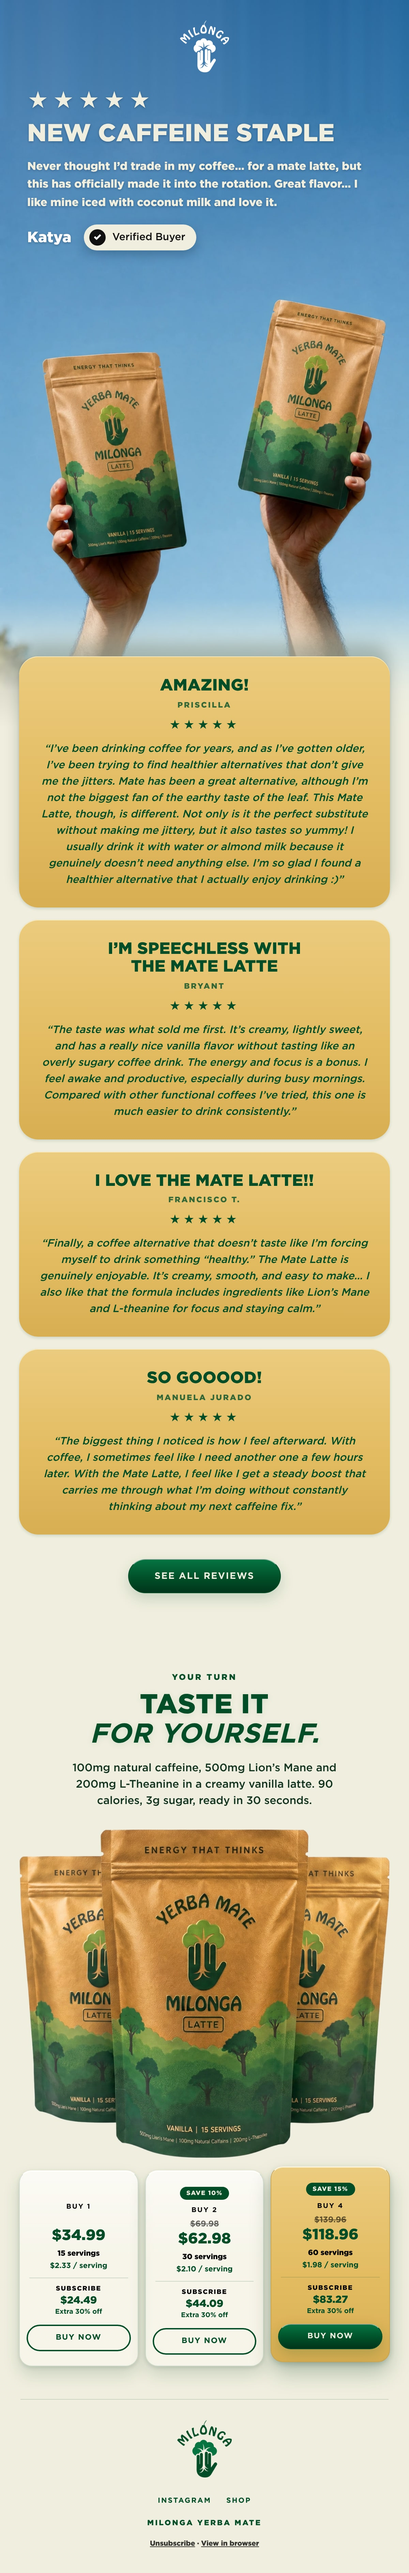
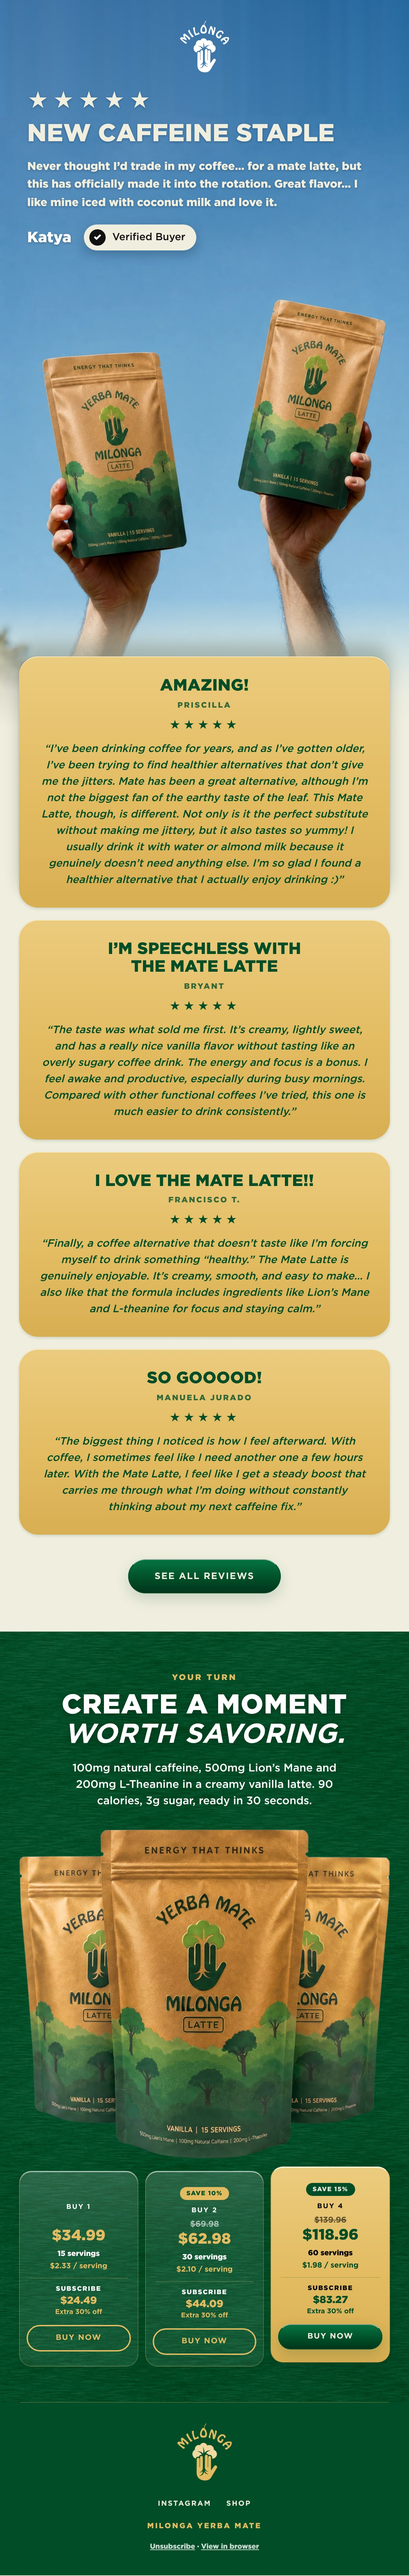
email: the close reads Create a moment worth savoring, on forest
The buying section moves onto the forest paper with the footer, gold
eyebrow and white type; the three bags become a transparent PNG so they
sit on the grain. On a forest page BundleOffer's raised gold tier keeps
forest type and button (the beige map), and the plain tiers take a faint
sheen instead of a white wash.

Claude-Session: https://claude.ai/code/session_01NhEtXPnfeCJfN73SqBkUZ5

diff --git a/email-ds/src/components/BundleOffer.tsx b/email-ds/src/components/BundleOffer.tsx
@@ -71,14 +71,18 @@ export function BundleOffer({ bg = 'forest', image, tiers, subscribe, raised = f
   // A raised tier: its own fill with a sheen across the top, the featured one
   // in the gold gradient the buttons use.
   const GOLD_FACE = 'linear-gradient(180deg, #EBCB7E 0%, #E3BC62 55%, #D8AE52 100%)';
-  const SHEEN = 'linear-gradient(180deg, rgba(255,255,255,0.5) 0%, rgba(255,255,255,0) 45%)';
+  // The sheen is a lit top edge: strong on a light page, faint on forest,
+  // where a strong white wash would read as a grey card.
+  const SHEEN = bg === 'forest'
+    ? 'linear-gradient(180deg, rgba(255,255,255,0.10) 0%, rgba(255,255,255,0) 45%)'
+    : 'linear-gradient(180deg, rgba(255,255,255,0.5) 0%, rgba(255,255,255,0) 45%)';
   const tierStyle = (featured?: boolean): React.CSSProperties =>
     raised
       ? {
           background: featured ? GOLD_FACE : `${SHEEN}, ${fill}`,
           backgroundColor: featured ? colors.gold : fill,
           border: `1px solid ${featured ? 'rgba(201,162,78,0.9)' : t.rule}`,
-          borderTopColor: 'rgba(255,255,255,0.85)',
+          borderTopColor: bg === 'forest' && !featured ? 'rgba(255,255,255,0.22)' : 'rgba(255,255,255,0.85)',
           borderRadius: 18,
           boxShadow: featured
             ? '0 16px 30px rgba(0,53,27,0.26), 0 3px 8px rgba(0,53,27,0.18), inset 0 1px 0 rgba(255,246,214,0.8)'
@@ -108,7 +112,13 @@ export function BundleOffer({ bg = 'forest', image, tiers, subscribe, raised = f
       ) : null}
 
       <div style={{ display: 'grid', gridTemplateColumns: `repeat(${tiers.length}, 1fr)`, gap: 10 }}>
-        {tiers.map((tier) => (
+        {tiers.map((tier) => {
+          // A raised featured tier is a GOLD card whatever the page, so its
+          // type and button follow the beige map (forest on light) rather than
+          // the page's — on a forest page gold-on-gold would vanish.
+          const onGold = raised && tier.featured;
+          const tt = onGold ? onBg.beige : t;
+          return (
           <div
             key={tier.label}
             className="milonga-lift"
@@ -124,8 +134,8 @@ export function BundleOffer({ bg = 'forest', image, tiers, subscribe, raised = f
               <div
                 style={{
                   display: 'inline-block',
-                  background: t.accent,
-                  color: t.btnText,
+                  background: tt.accent,
+                  color: tt.btnText,
                   fontSize: 9,
                   fontWeight: 900,
                   letterSpacing: '0.1em',
@@ -144,7 +154,7 @@ export function BundleOffer({ bg = 'forest', image, tiers, subscribe, raised = f
                 fontWeight: 700,
                 letterSpacing: '0.14em',
                 textTransform: 'uppercase',
-                color: t.body,
+                color: tt.body,
                 marginBottom: 7,
               }}
             >
@@ -156,7 +166,7 @@ export function BundleOffer({ bg = 'forest', image, tiers, subscribe, raised = f
               style={{
                 fontSize: 12,
                 fontWeight: 700,
-                color: t.body,
+                color: tt.body,
                 opacity: tier.was ? 0.6 : 0,
                 textDecoration: 'line-through',
                 lineHeight: 1.2,
@@ -165,27 +175,27 @@ export function BundleOffer({ bg = 'forest', image, tiers, subscribe, raised = f
             >
               {tier.was ?? tier.price}
             </div>
-            <div style={{ fontSize: 22, fontWeight: 900, color: t.accent, lineHeight: 1.05, marginBottom: 7 }}>
+            <div style={{ fontSize: 22, fontWeight: 900, color: tt.accent, lineHeight: 1.05, marginBottom: 7 }}>
               {tier.price}
             </div>
-            {tier.detail ? <div style={{ fontSize: 11, lineHeight: 1.45, color: t.body }}>{tier.detail}</div> : null}
+            {tier.detail ? <div style={{ fontSize: 11, lineHeight: 1.45, color: tt.body }}>{tier.detail}</div> : null}
             {tier.unit ? (
-              <div style={{ fontSize: 11, fontWeight: 700, color: t.accent, paddingTop: 3 }}>{tier.unit}</div>
+              <div style={{ fontSize: 11, fontWeight: 700, color: tt.accent, paddingTop: 3 }}>{tier.unit}</div>
             ) : null}
             {tier.sub ? (
-              <div style={{ margin: '11px 4px 0', paddingTop: 9, borderTop: `1px solid ${t.rule}` }}>
-                <div style={{ fontSize: 9.5, fontWeight: 900, letterSpacing: '0.12em', textTransform: 'uppercase', color: t.body }}>
+              <div style={{ margin: '11px 4px 0', paddingTop: 9, borderTop: `1px solid ${tt.rule}` }}>
+                <div style={{ fontSize: 9.5, fontWeight: 900, letterSpacing: '0.12em', textTransform: 'uppercase', color: tt.body }}>
                   Subscribe
                 </div>
-                <div style={{ fontSize: 15, fontWeight: 900, color: t.accent, lineHeight: 1.15, paddingTop: 3 }}>
+                <div style={{ fontSize: 15, fontWeight: 900, color: tt.accent, lineHeight: 1.15, paddingTop: 3 }}>
                   {tier.sub.price}
                 </div>
-                <div style={{ fontSize: 10, fontWeight: 700, color: t.accent, paddingTop: 2 }}>{tier.sub.note}</div>
+                <div style={{ fontSize: 10, fontWeight: 700, color: tt.accent, paddingTop: 2 }}>{tier.sub.note}</div>
               </div>
             ) : null}
             <div style={{ height: 13 }} />
             <Button
-              bg={bg}
+              bg={onGold ? 'beige' : bg}
               label="Buy now"
               href={tier.href}
               size="sm"
@@ -193,7 +203,8 @@ export function BundleOffer({ bg = 'forest', image, tiers, subscribe, raised = f
               fullWidth
             />
           </div>
-        ))}
+          );
+        })}
       </div>
 
       {subscribe ? (

diff --git a/email-ds/emails/reviews-showcase.jsx b/email-ds/emails/reviews-showcase.jsx
@@ -43,7 +43,7 @@ const SECTION_1_ALT =
   REVIEWS[0].quote.replace(/[“”]/g, '');
 
 const SECTION_3_ALT =
-  'Your turn. Taste it for yourself. 100mg natural caffeine, 500mg Lion’s Mane ' +
+  'Your turn. Create a moment worth savoring. 100mg natural caffeine, 500mg Lion’s Mane ' +
   'and 200mg L-Theanine in a creamy vanilla latte. 90 calories, 3g sugar, ready ' +
   'in 30 seconds. Three Milonga Mate Latte pouches. Buy 1: $34.99, 15 servings, ' +
   '$2.33 a serving, or $24.49 subscribed. Buy 2: $62.98, save 10%, 30 servings, ' +
@@ -148,25 +148,26 @@ function ReviewsShowcase({ shopHref = '#shop' }) {
     ),
 
     // ── 3 · THE CLOSE ─────────────────────────────────────────────────────
-    // Beige, dark green type only. The pouch and the real bundle ladder from
-    // the product file: one bag, two at 10% off, three at 15% off, and an
-    // extra 15% for subscribing. One button.
-    h('div', { style: { padding: '60px 28px 48px', textAlign: 'center' } },
+    // The buying section on the forest paper, so the email closes on its
+    // darkest, richest ground. Dark-green map: gold eyebrow, white title and
+    // body. The three bags, then the bundle ladder as raised cards — the
+    // featured gold card keeps forest type, because gold-on-gold vanishes.
+    h('div', { style: { ...FOREST_PAPER, padding: '60px 28px 52px', textAlign: 'center' } },
       h('div', { style: { fontFamily: FONT, fontWeight: 900, fontSize: 12,
-        letterSpacing: '0.2em', textTransform: 'uppercase', color: FOREST,
+        letterSpacing: '0.2em', textTransform: 'uppercase', color: GOLD,
         marginBottom: 14 } }, 'Your turn'),
-      h(M.Headline, { line1: 'Taste it', line2: 'for yourself.', bg: 'beige',
-        size: 40, align: 'center', italic: true }),
+      h(M.Headline, { line1: 'Create a moment', line2: 'worth savoring.', bg: 'forest',
+        size: 40, align: 'center', color: '#FFFFFF', line2Color: '#FFFFFF', italic: true }),
       h('div', { style: { fontFamily: FONT, fontWeight: 500, fontSize: 16,
-        lineHeight: 1.5, color: '#12331F', maxWidth: 440, margin: '16px auto 0' } },
+        lineHeight: 1.5, color: '#FFFFFF', maxWidth: 440, margin: '16px auto 0' } },
         '100mg natural caffeine, 500mg Lion’s Mane and 200mg L-Theanine in a creamy vanilla latte. 90 calories, 3g sugar, ready in 30 seconds.'),
       h('div', { style: { height: 30 } }),
       // Prices as Shopify shows them (The Original Mate Latte – Vanilla,
       // read 2026-10-09): 1 bag $34.99, 2 bags $62.98 (save 10%), 4 bags
       // $118.96 (save 15%); subscribed, each 30% less again.
       h(M.BundleOffer, {
-        bg: 'beige', raised: true, imageWidth: '100%',
-        image: { src: '../public/product/three-bags-beige.jpg', alt: 'Three Milonga Mate Latte pouches, vanilla, 15 servings each' },
+        bg: 'forest', raised: true, imageWidth: '100%',
+        image: { src: '../public/product/three-bags.png', alt: 'Three Milonga Mate Latte pouches, vanilla, 15 servings each' },
         // The Mate Mornings Club is set on the whole product in Shopify, so
         // its 30% applies to every bundle on top of the bundle saving — shown
         // small inside each card rather than as a fourth box.
@@ -181,6 +182,7 @@ function ReviewsShowcase({ shopHref = '#shop' }) {
       }),
     ),
 
-    h(M.Footer, { bg: 'beige', social: [{ label: 'Instagram', href: '#' }, { label: 'Shop', href: '#' }] }),
+    // The footer joins the close on forest, so the email ends on one ground.
+    h(M.Footer, { bg: 'forest', social: [{ label: 'Instagram', href: '#' }, { label: 'Shop', href: '#' }] }),
   );
 }
